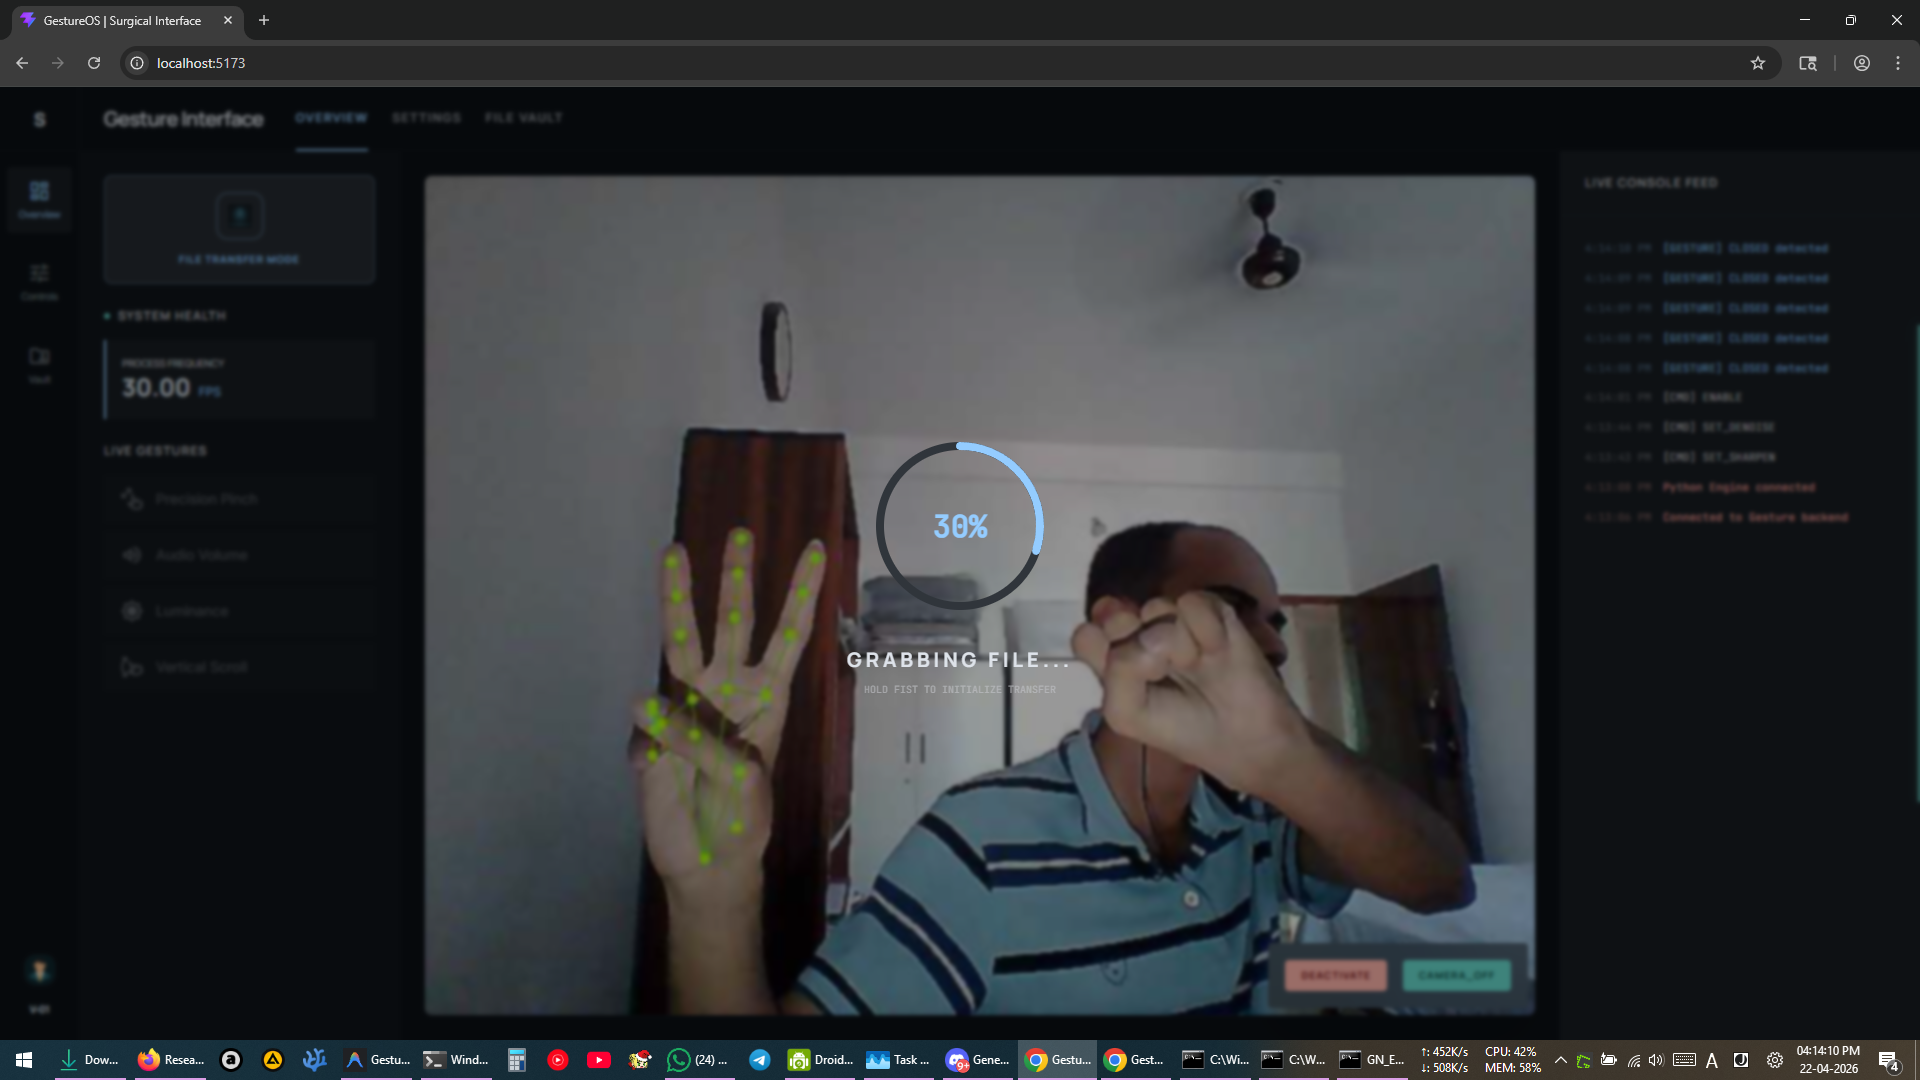
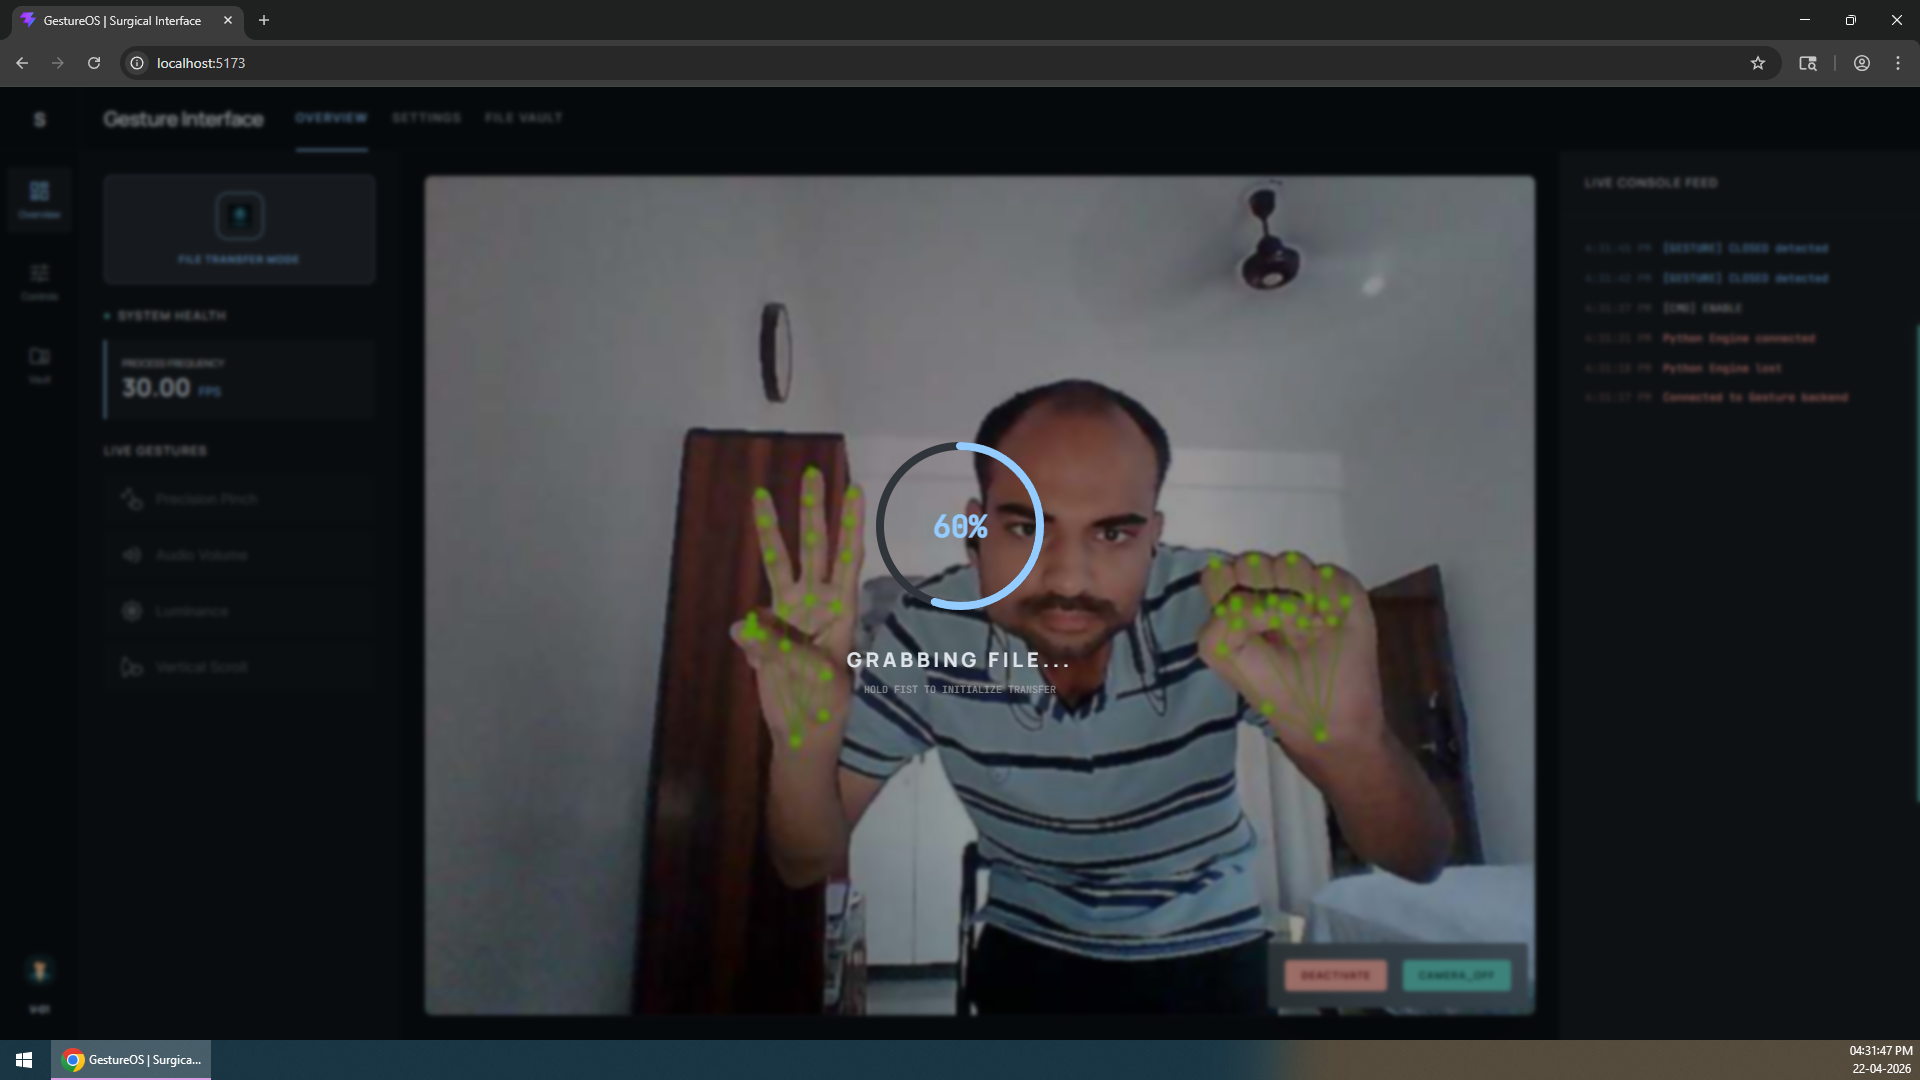
Implemented air transfer for multiple devices using gesture in mode 3

Changed region(s): [[0.0, 0.3361, 1.0, 1.0], [0.875, 0.275, 0.9688, 0.4889], [0.6875, 0.2444, 0.7188, 0.275]]

diff --git a/backend/discovery.js b/backend/discovery.js
@@ -4,7 +4,7 @@ const chalk = require('./colors'); // Native secure color helper
 
 const DISCOVERY_PORT = process.env.DISCOVERY_PORT ? parseInt(process.env.DISCOVERY_PORT) : 41234;
 const BROADCAST_ADDR = '255.255.255.255';
-const HEARTBEAT_INTERVAL = 5000;
+const HEARTBEAT_INTERVAL = 3000;
 const PEER_TTL = 30000;
 
 class Discovery {
@@ -21,11 +21,23 @@ class Discovery {
     this.socket.on('message', (msg, rinfo) => {
       try {
         const data = JSON.parse(msg.toString());
-        if (data.type === 'ANNOUNCE' && (data.ip !== this.ip || data.port !== this.port)) {
+        // A peer is "not me" if either the name is different OR the port is different
+        const isMe = (data.name === this.name && data.port === this.port);
+        
+        if (data.type === 'ANNOUNCE' && !isMe) {
           const peerKey = `${data.name}:${data.port}`;
+          
+          if (!this.peers.has(peerKey)) {
+            console.log(chalk.green(`[Discovery] Found Peer: ${data.name} (${rinfo.address}:${data.port})`));
+          }
+
+          // Use the rinfo.address (actual source) as the reachable IP
+          // If it's from 127.0.0.1, we use the local IP to ensure other peers can still see it
+          const reachableIP = (rinfo.address === '127.0.0.1') ? this.ip : rinfo.address;
+
           this.peers.set(peerKey, {
             name: data.name,
-            ip: rinfo.address, 
+            ip: reachableIP, 
             port: data.port,
             lastSeen: Date.now()
           });
@@ -53,8 +65,12 @@ class Discovery {
       }
     });
 
-    // Try to bind normally. If blocked (EADDRINUSE), node will still send heartbeats.
-    this.socket.bind({ port: DISCOVERY_PORT, exclusive: false });
+    // Try to bind normally. 'exclusive: false' allows sharing on Windows.
+    this.socket.bind({
+      port: DISCOVERY_PORT,
+      address: '0.0.0.0',
+      exclusive: false
+    });
 
     // Start broadcasting heartbeat
     setInterval(() => this.broadcast(), HEARTBEAT_INTERVAL);
@@ -71,7 +87,13 @@ class Discovery {
       port: this.port
     });
 
-    this.socket.send(payload, 0, payload.length, DISCOVERY_PORT, BROADCAST_ADDR);
+    // 1. Send to Global Broadcast (for other devices on LAN)
+    this.socket.send(payload, 0, payload.length, DISCOVERY_PORT, BROADCAST_ADDR, (err) => {
+      if (err) console.error(chalk.red(`[Discovery] LAN Broadcast Error: ${err.message}`));
+    });
+
+    // 2. Send to Localhost (for other instances on SAME machine)
+    this.socket.send(payload, 0, payload.length, DISCOVERY_PORT, '127.0.0.1');
   }
 
   cleanup() {

diff --git a/backend/index.js b/backend/index.js
@@ -64,7 +64,7 @@ function connectToEngine() {
   });
   
   engineSocket.on('error', (err) => { 
-    console.error('[Bridge] Error:', err.message);
+    // Silence noise, the 'close' event handles retry logging
   });
 }
 
@@ -139,10 +139,18 @@ app.get('/progress/:transferId', (req, res) => {
 // ── NATIVE DISPATCH FROM PYTHON ────────────────────────────────────────────────
 app.post('/native-dispatch', (req, res) => {
   const { filePath } = req.body;
-  if (!filePath) return res.status(400).json({ error: 'Missing filePath' });
+  console.log(chalk.gray(`[NativeDispatch] Incoming request for: ${filePath || 'NULL'}`));
+
+  if (!filePath) {
+    console.error(chalk.red('[NativeDispatch] Error: Missing filePath in request body'));
+    return res.status(400).json({ error: 'Missing filePath' });
+  }
 
   const fs = require('fs');
-  if (!fs.existsSync(filePath)) return res.status(404).json({ error: 'File not found on disk' });
+  if (!fs.existsSync(filePath)) {
+    console.error(chalk.red(`[NativeDispatch] Error: File not found at ${filePath}`));
+    return res.status(404).json({ error: 'File not found on disk' });
+  }
 
   const stats = fs.statSync(filePath);
   if (!stats.isFile()) return res.status(400).json({ error: 'Not a file' });
@@ -294,6 +302,8 @@ startServer(PORT);
 
 setInterval(() => {
   const peers = discovery.getPeers();
-  if (peers.length > 0)
-    console.log(chalk.gray(`[Network] Peers: ${peers.map(p => `${p.name}(${p.ip})`).join(', ')}`));
-}, 10000);
+  broadcastToClients({ type: 'discovery_update', peers });
+  
+  // Continuous scanning feedback for the user
+  console.log(chalk.gray(`[Network] Scanning... (${peers.length} peers online)`));
+}, 3000);

diff --git a/Engine/gesture_modes/set3_transfer.py b/Engine/gesture_modes/set3_transfer.py
@@ -87,13 +87,15 @@ def _dispatch_native_file():
             filePath = temp_path
 
         # 5. Notify Backend
+        # Normalize path to use forward slashes for the JSON request
+        clean_path = filePath.replace("\\", "/")
         req = urllib.request.Request(
             f"http://{BACKEND_HOST}:{BACKEND_PORT}/native-dispatch",
-            data=json.dumps({"filePath": filePath}).encode("utf-8"),
+            data=json.dumps({"filePath": clean_path}).encode("utf-8"),
             headers={"Content-Type": "application/json"}
         )
         urllib.request.urlopen(req)
-        print(f"[Set 3] Dispatched: {filePath}")
+        print(f"[Set 3] Dispatched Successfully: {clean_path}")
 
     except Exception as e:
         print(f"[Set 3] Dispatch Error: {e}")
